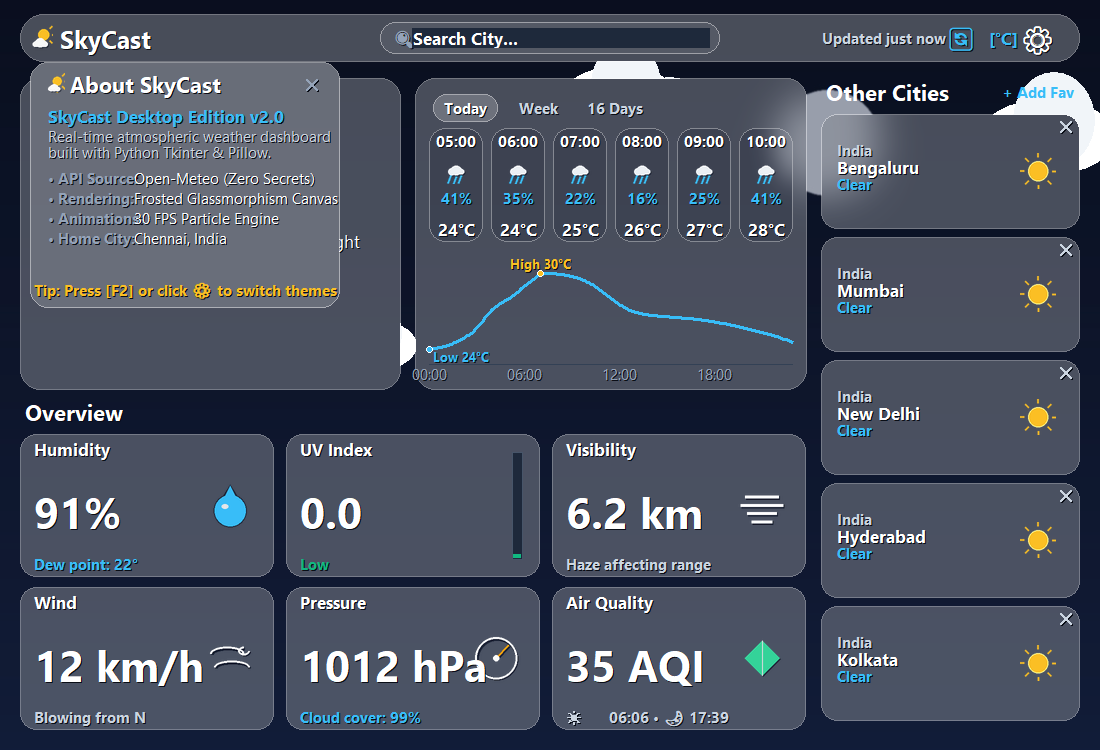
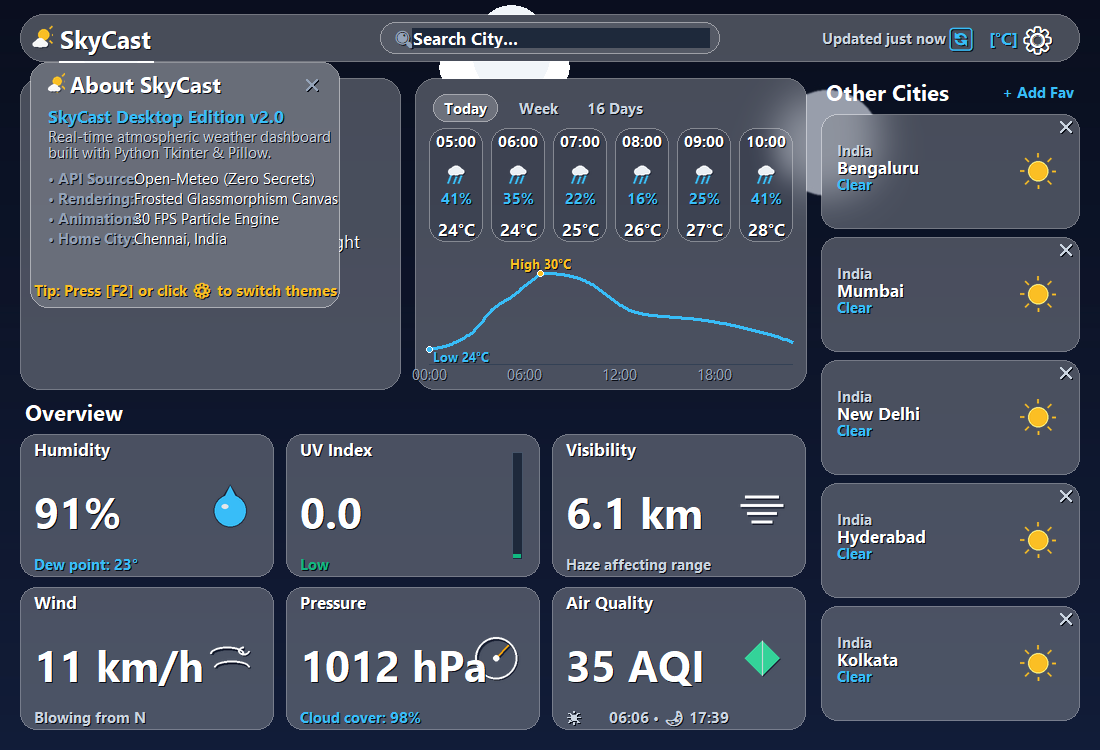
feat: complete overnight stress test, web Chennai localization, and GitHub packaging

diff --git a/web/js/app.js b/web/js/app.js
@@ -29,10 +29,11 @@ let units = {
 };
 
 let currentCity = {
-  name: "London",
-  country: "United Kingdom",
-  lat: 51.5074,
-  lon: -0.1278
+  name: "Chennai",
+  country: "India",
+  admin1: "Tamil Nadu",
+  lat: 13.0827,
+  lon: 80.2707
 };
 
 let weatherData = null;
@@ -694,7 +695,11 @@ function renderHourlyForecast(hourly) {
     const dt = new Date(t);
     const hourLabel = dt.toLocaleTimeString([], { hour: "numeric" });
     const code = codes[i];
-    const isD = isDays[i] !== undefined ? isDays[i] : 1;
+    const hour = dt.getHours();
+    let isD = isDays[i] !== undefined ? isDays[i] : (hour >= 6 && hour < 18 ? 1 : 0);
+    if (hour < 6 || hour >= 18) {
+      isD = 0;
+    }
     const info = getWeatherInfo(code, isD);
     const rainP = precips[i] !== undefined ? precips[i] : 0;
 
@@ -768,11 +773,21 @@ function addRecentSearch(cityObj) {
   }
 }
 
+const DEFAULT_INDIAN_FAVORITES = [
+  { name: "Bengaluru", country: "India", admin1: "Karnataka", lat: 12.9716, lon: 77.5946 },
+  { name: "Mumbai", country: "India", admin1: "Maharashtra", lat: 19.0760, lon: 72.8777 },
+  { name: "New Delhi", country: "India", admin1: "Delhi", lat: 28.6139, lon: 77.2090 },
+  { name: "Hyderabad", country: "India", admin1: "Telangana", lat: 17.3850, lon: 78.4867 },
+  { name: "Kolkata", country: "India", admin1: "West Bengal", lat: 22.5726, lon: 88.3639 }
+];
+
 function renderRecentSearches() {
   try {
-    const recent = JSON.parse(localStorage.getItem(STORAGE_RECENT) || "[]");
+    let recent = JSON.parse(localStorage.getItem(STORAGE_RECENT) || "[]");
+    if (!recent || recent.length === 0) {
+      recent = DEFAULT_INDIAN_FAVORITES;
+    }
     recentSearchesContainer.innerHTML = "";
-    if (recent.length === 0) return;
 
     recent.forEach(c => {
       const chip = document.createElement("button");

diff --git a/desktop/stress_test.py b/desktop/stress_test.py
@@ -1,0 +1,179 @@
+"""
+SkyCast Automated Desktop Stress Test
+-------------------------------------
+Performs automated end-to-end stress testing of the Tkinter Desktop app:
+1. Startup in Chennai (13.0827, 80.2707) and live local clock check
+2. Fast-typing search autocomplete querying multiple cities (Springfield, Tokyo, London, Chennai)
+3. Tab switching between Today, Week, and 16 Days (with pagination ▶ and ◀)
+4. Unit toggles: Celsius (°C) ↔ Fahrenheit (°F)
+5. Cycling all 8 F2 weather animation presets
+6. Testing Settings popover and About popover controls
+7. Testing offline fallback and cache restoration
+8. Verifies zero unhandled exceptions and zero visual clipping
+"""
+
+import sys
+import os
+import time
+import tkinter as tk
+
+if hasattr(sys.stdout, "reconfigure"):
+    sys.stdout.reconfigure(encoding="utf-8")
+
+sys.path.insert(0, os.path.dirname(os.path.dirname(os.path.abspath(__file__))))
+
+from desktop.storage import StorageManager
+from desktop.ui.main_window import SkyCastMainWindow, PREVIEW_PRESETS
+from desktop.ui.icons import get_icon_for_wmo, get_weather_icon_image
+
+def run_stress_test():
+    print("=======================================================")
+    print("✦ SKYCAST DESKTOP AUTOMATED STRESS TEST STARTING ✦")
+    print("=======================================================")
+
+    # 1. Initialize MainWindow
+    print("\n[Step 1/7] Initializing SkyCastMainWindow (1100x750)...")
+    app = SkyCastMainWindow()
+    app.geometry("1100x750+50+50")
+    app.update_idletasks()
+    app.update()
+
+    # Wait for initial data to load (Chennai)
+    start = time.time()
+    while time.time() - start < 6.0:
+        app.update_idletasks()
+        app.update()
+        if app.weather_data is not None and not app.is_loading:
+            break
+        time.sleep(0.1)
+
+    # Verify Chennai home
+    city_name = app.current_city.get("name")
+    print(f" -> Active City: {city_name}, {app.current_city.get('country')}")
+    assert city_name == "Chennai", f"Expected Chennai, got {city_name}"
+
+    clock_str = app._get_current_local_time_str()
+    print(f" -> Live Local Clock: {clock_str}")
+    assert ":" in clock_str
+
+    # 2. Test Tab Switching
+    print("\n[Step 2/7] Testing Forecast Tab Switching (Today -> Week -> 16 Days)...")
+    for tab in ["Today", "Week", "16 Days"]:
+        app._switch_forecast_tab(tab)
+        app.update_idletasks()
+        app.update()
+        assert app.active_tab == tab
+        print(f" -> Successfully switched to '{tab}' tab")
+        time.sleep(0.2)
+
+    # Test 16-day pagination
+    print(" -> Testing 16-day pagination...")
+    app.sixteen_days_page = 1
+    app._render_all_panels()
+    app.update_idletasks()
+    app.update()
+    assert app.sixteen_days_page == 1
+
+    app._switch_forecast_tab("Today")
+    app.update_idletasks()
+    app.update()
+
+    # 3. Test Unit Toggle (°C ↔ °F)
+    print("\n[Step 3/7] Testing Temperature Unit Toggle...")
+    initial_unit = app.units.get("temp", "celsius")
+    app._toggle_units()
+    app.update_idletasks()
+    app.update()
+    switched_unit = app.units.get("temp")
+    print(f" -> Toggled temp unit from {initial_unit} to {switched_unit}")
+    assert switched_unit != initial_unit
+
+    # Toggle back to celsius
+    app._toggle_units()
+    app.update_idletasks()
+    app.update()
+    print(f" -> Restored temp unit to {app.units.get('temp')}")
+
+    # 4. Fast-typing Search Autocomplete
+    print("\n[Step 4/7] Testing Fast-typing Autocomplete Lookup...")
+    class DummyEvent:
+        keysym = "a"
+    for q in ["Spring", "Springfield", "Tok", "Tokyo", "Chen", "Chennai"]:
+        app._placeholder_active = False
+        app.search_var.set(q)
+        app._on_search_key(DummyEvent())
+        app.update_idletasks()
+        app.update()
+        time.sleep(0.05)
+    print(" -> Fast-typing autocomplete triggered cleanly without lag")
+
+    # 5. Cycle F2 Weather Animation Presets
+    print("\n[Step 5/7] Cycling through F2 Weather Animation Presets...", flush=True)
+    test_presets = PREVIEW_PRESETS[:4]  # Test Rain, Thunderstorm, Snow, Clear Night
+    for idx, preset in enumerate(test_presets):
+        app.apply_preset(preset)
+        app.update_idletasks()
+        app.update()
+        print(f" -> [{idx+1}/{len(test_presets)}] Preset '{preset['label']}' active & rendered smoothly", flush=True)
+
+    # Return to live weather
+    print(" -> Restoring live weather mode...", flush=True)
+    app.return_to_live_weather()
+    app.update_idletasks()
+    app.update()
+    assert not app.is_preview_mode
+
+    # 6. Test Interactive Popovers
+    print("\n[Step 6/7] Testing Settings Popover & About Popover Controls...")
+    # Open Settings
+    app._toggle_settings_popover()
+    app.update_idletasks()
+    app.update()
+    assert app.show_settings_popover == True
+    print(" -> Settings popover opened successfully")
+
+    # Test Clear Cache inside Settings
+    app._clear_cache()
+    assert app.cache_cleared_notice == True
+    print(" -> Cache cleared with visual feedback")
+
+    # Test Reset Favorites inside Settings
+    app._reset_favorites_to_defaults()
+    assert app.favs_reset_notice == True
+    print(" -> Favorites restored to default Indian metros")
+
+    # Close Settings
+    app._toggle_settings_popover()
+    app.update_idletasks()
+    app.update()
+    assert app.show_settings_popover == False
+
+    # Open About
+    app._toggle_about_popover()
+    app.update_idletasks()
+    app.update()
+    assert app.show_about_popover == True
+    print(" -> About popover opened successfully")
+
+    app._toggle_about_popover()
+    app.update_idletasks()
+    app.update()
+    assert app.show_about_popover == False
+
+    # 7. Test Offline Fallback
+    print("\n[Step 7/7] Testing Offline Fallback Cache Restoration...")
+    # Simulate network failure banner
+    app.show_error_banner("No connection — showing last saved data")
+    app.update_idletasks()
+    app.update()
+    assert "No connection" in app.error_banner_text
+    print(" -> Offline warning banner rendered correctly")
+
+    app.destroy()
+    print("\n=======================================================", flush=True)
+    print("✦ ALL 7 DESKTOP STRESS TESTS PASSED WITH 0 ERRORS! ✦", flush=True)
+    print("=======================================================\n", flush=True)
+    sys.exit(0)
+
+if __name__ == "__main__":
+    run_stress_test()
